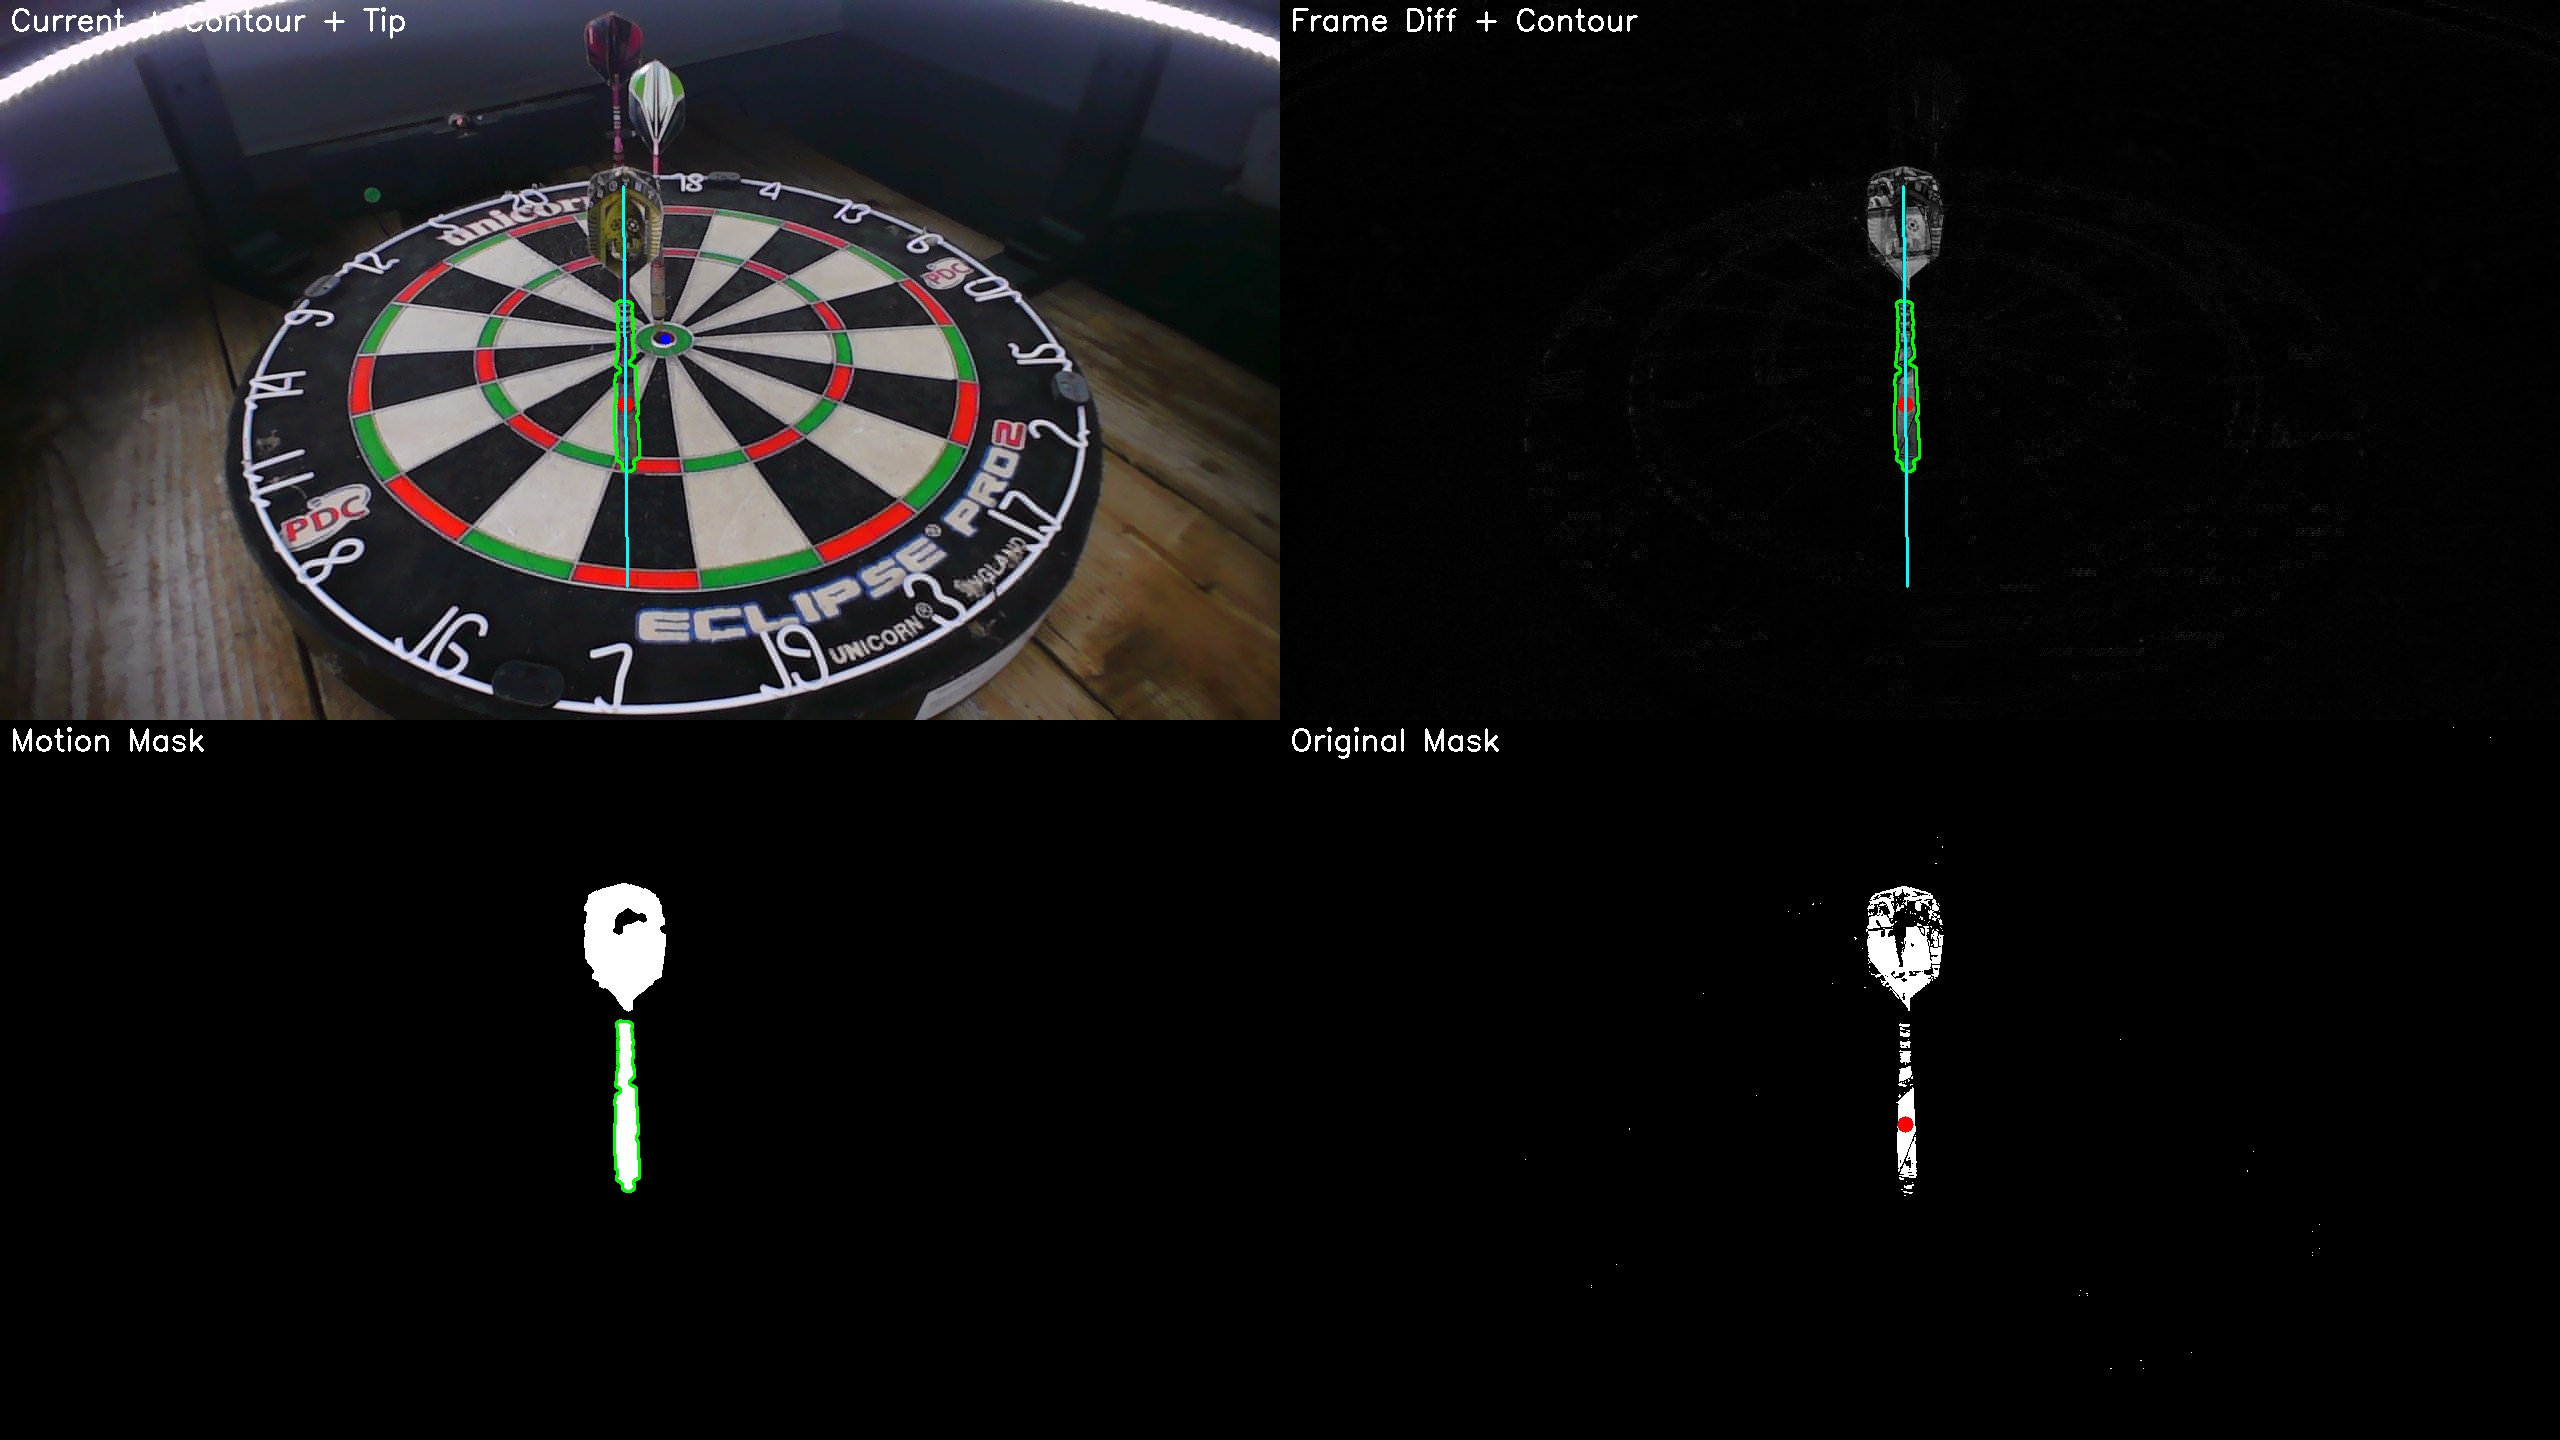
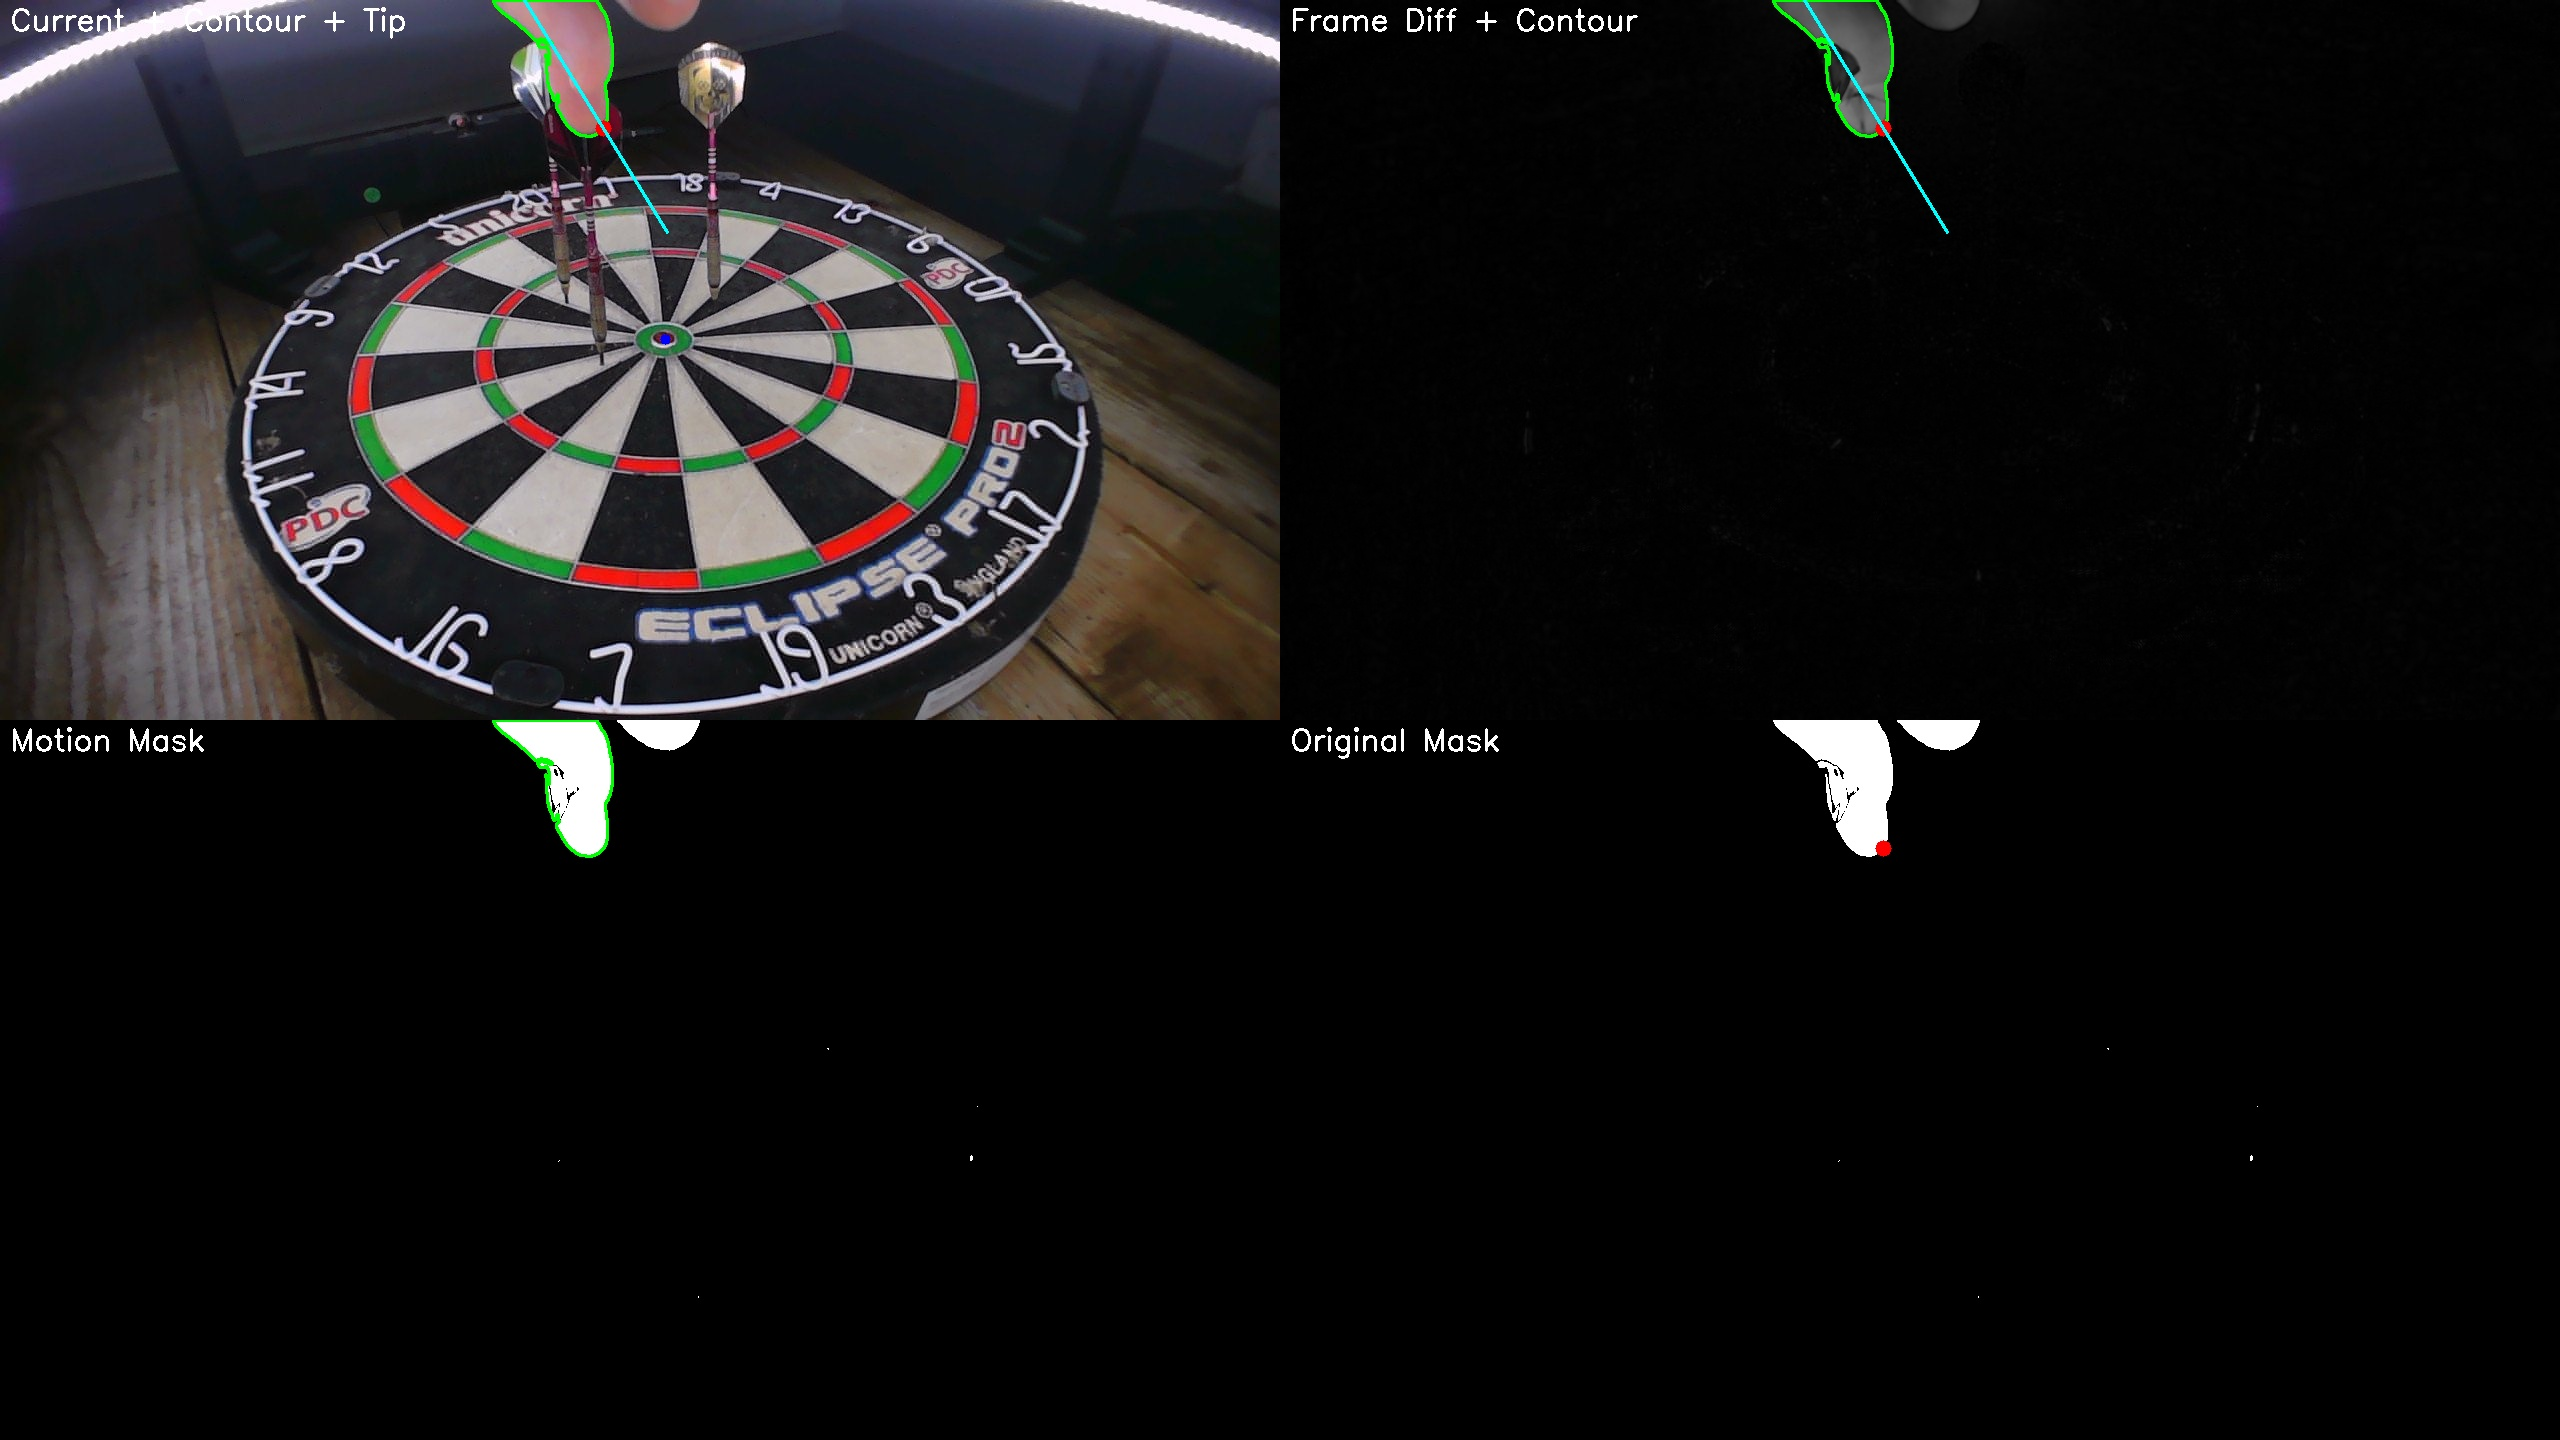
restore: back to Autodarts-style simple diff

diff --git a/app/core/skeleton_detection.py b/app/core/skeleton_detection.py
@@ -317,9 +317,15 @@ def project_to_tip(skeleton_endpoint, line_params, original_mask, max_extend=50,
     return (float(best_x), float(best_y))
 
 
-def find_tip_endpoint(endpoints, line_params, board_center=None):
+def find_tip_endpoint(endpoints, line_params, board_center=None, board_radius=None):
     """
-    Find which skeleton endpoint is the tip end (closest to board center).
+    Find which skeleton endpoint is the tip end.
+    
+    The tip is the point ON THE BOARD SURFACE (inside the board boundary).
+    The flight sticks OUT from the board (further from the board plane).
+    
+    Strategy: Pick the endpoint that is INSIDE the board boundary (within radius).
+    The tip is where dart meets board. Flight is beyond the board edge.
     """
     if len(endpoints) < 2 or line_params is None:
         return endpoints[0] if endpoints else None
@@ -327,18 +333,38 @@ def find_tip_endpoint(endpoints, line_params, board_center=None):
     vx, vy, x0, y0 = line_params
     
     if board_center is not None:
-        # Pick endpoint closest to board center
         cx, cy = board_center
+        
+        # Use calibration radius if provided, otherwise estimate
+        # Double ring outer edge is ~170mm from center, maps to ~180-220px typically
+        if board_radius is None:
+            board_radius = 200  # Default estimate
+        
         best_endpoint = None
-        best_dist = float('inf')
+        best_score = float('inf')  # Lower = better (more inside board)
+        
+        endpoint_info = []
         for (ex, ey) in endpoints:
-            dist = np.sqrt((ex - cx)**2 + (ey - cy)**2)
-            if dist < best_dist:
-                best_dist = dist
+            dist_from_center = np.sqrt((ex - cx)**2 + (ey - cy)**2)
+            
+            # Score = how far BEYOND the board boundary
+            # Negative = inside board (this is the TIP!)
+            # Positive = outside board (this is the FLIGHT!)
+            beyond_board = dist_from_center - board_radius
+            
+            endpoint_info.append(f"({ex:.0f},{ey:.0f}) d={dist_from_center:.0f} beyond={beyond_board:.0f}")
+            
+            if beyond_board < best_score:
+                best_score = beyond_board
                 best_endpoint = (ex, ey)
+        
+        # Debug log
+        with open(r"C:\Users\clawd\skeleton_endpoints.txt", "a") as f:
+            f.write(f"center=({cx:.0f},{cy:.0f}) radius={board_radius:.0f} [{'; '.join(endpoint_info)}] -> tip=({best_endpoint[0]:.0f},{best_endpoint[1]:.0f})\n")
+        
         return best_endpoint
     else:
-        # Default: pick endpoint in +Y direction from line midpoint
+        # Fallback: use line direction
         if vy < 0:
             vx, vy = -vx, -vy
         
@@ -357,43 +383,37 @@ def find_tip_endpoint(endpoints, line_params, board_center=None):
 
 
 def get_adaptive_motion_mask(current_frame, previous_frame, camera_id=None, 
-                             fixed_threshold=25, use_background_model=False):
+                             fixed_threshold=20, use_background_model=False):
     """
-    Get motion mask using either fixed threshold or adaptive background model.
+    Autodarts-style simple diff: blur -> diff -> threshold.
+    Minimal morphology to preserve dart shape, especially the tip.
     
     Args:
-        current_frame: Current BGR frame
+        current_frame: Current BGR frame (with dart)
         previous_frame: Previous BGR frame (before dart)
-        camera_id: Camera ID for background model lookup
-        fixed_threshold: Fixed threshold to use if no background model
-        use_background_model: Whether to use adaptive thresholding
+        camera_id: Unused (kept for API compatibility)
+        fixed_threshold: Threshold value (default 20)
+        use_background_model: Unused (kept for API compatibility)
     
     Returns:
         (gray_diff, motion_mask) tuple
     """
-    # Compute diff
-    diff = cv2.absdiff(current_frame, previous_frame)
+    # STEP 1: Gaussian blur to reduce sensor noise
+    blur_current = cv2.GaussianBlur(current_frame, (5, 5), 0)
+    blur_previous = cv2.GaussianBlur(previous_frame, (5, 5), 0)
+    
+    # STEP 2: Compute diff
+    diff = cv2.absdiff(blur_current, blur_previous)
     gray_diff = cv2.cvtColor(diff, cv2.COLOR_BGR2GRAY)
     
-    # Try adaptive thresholding via background model
-    if use_background_model and HAS_BG_MODEL and camera_id:
-        try:
-            bg_manager = get_background_manager()
-            diff_uint8, motion_mask = bg_manager.get_adaptive_diff(
-                camera_id, current_frame, previous_frame
-            )
-            # Use the adaptive mask if we got one
-            if motion_mask is not None and np.sum(motion_mask) > 0:
-                return gray_diff, motion_mask
-        except Exception as e:
-            pass  # Fall through to fixed threshold
-    
-    # Fallback: fixed threshold
+    # STEP 3: Simple threshold - that's it!
+    # Autodarts uses minimal processing to preserve dart shape
     _, motion_mask = cv2.threshold(gray_diff, fixed_threshold, 255, cv2.THRESH_BINARY)
     
-    # Remove small noise blobs
-    kernel = cv2.getStructuringElement(cv2.MORPH_ELLIPSE, (3, 3))
-    motion_mask = cv2.morphologyEx(motion_mask, cv2.MORPH_OPEN, kernel)
+    # Optional: very light opening to remove isolated noise pixels
+    # Keep kernel tiny (2x2) to avoid eating the tip
+    # open_kernel = cv2.getStructuringElement(cv2.MORPH_ELLIPSE, (2, 2))
+    # motion_mask = cv2.morphologyEx(motion_mask, cv2.MORPH_OPEN, open_kernel)
     
     return gray_diff, motion_mask
 
@@ -407,7 +427,8 @@ def detect_dart_skeleton(
     debug: bool = False,
     debug_name: str = "skeleton_debug",
     camera_id: str = None,
-    use_adaptive_threshold: bool = True
+    use_adaptive_threshold: bool = True,
+    board_radius: float = None
 ) -> dict:
     """
     Detect dart using skeleton-based approach with line projection.
@@ -416,6 +437,7 @@ def detect_dart_skeleton(
         existing_dart_locations: List of (x, y) tuples of previous dart tips to exclude
         camera_id: Camera ID for adaptive background thresholding
         use_adaptive_threshold: Use background model for adaptive thresholding
+        board_radius: Outer radius of board in pixels (from calibration) for tip selection
     """
     result = {
         "tip": None, 
@@ -443,18 +465,13 @@ def detect_dart_skeleton(
     # Keep original for tip projection (before erosion)
     original_mask = motion_mask_raw.copy()
     
-    # 3. Morphological cleanup for skeleton
-    # Erode to remove noise (but this may shrink tip)
-    erode_kernel = cv2.getStructuringElement(cv2.MORPH_ELLIPSE, (3, 3))
-    motion_mask = cv2.erode(motion_mask_raw, erode_kernel, iterations=1)  # Less erosion
+    # 3. Autodarts-style: minimal morphology to preserve dart shape
+    # Just use the raw threshold mask - the tip is preserved!
+    motion_mask = motion_mask_raw
     
-    # Dilate to restore
-    dilate_kernel = cv2.getStructuringElement(cv2.MORPH_ELLIPSE, (5, 5))
-    motion_mask = cv2.dilate(motion_mask, dilate_kernel, iterations=2)
-    
-    # Close to fill holes
-    close_kernel = cv2.getStructuringElement(cv2.MORPH_ELLIPSE, (7, 7))
-    motion_mask = cv2.morphologyEx(motion_mask, cv2.MORPH_CLOSE, close_kernel)
+    # Optional: very light closing to connect broken segments (small kernel only)
+    # close_kernel = cv2.getStructuringElement(cv2.MORPH_ELLIPSE, (3, 3))
+    # motion_mask = cv2.morphologyEx(motion_mask, cv2.MORPH_CLOSE, close_kernel)
     
     # 4. Find dart contour (excluding existing dart locations)
     if existing_dart_locations is None:
@@ -507,8 +524,8 @@ def detect_dart_skeleton(
     endpoints = find_skeleton_endpoints(skeleton)
     
     if len(endpoints) >= 2 and line_params:
-        # Find which endpoint is the tip end (closest to board center)
-        skeleton_tip = find_tip_endpoint(endpoints, line_params, board_center=center)
+        # Find which endpoint is the tip (inside board boundary)
+        skeleton_tip = find_tip_endpoint(endpoints, line_params, board_center=center, board_radius=board_radius)
         
         # Project along line to find true tip in original mask
         tip = project_to_tip(skeleton_tip, line_params, original_mask, max_extend=100, board_center=center)
@@ -544,7 +561,8 @@ def detect_dart_hough(
     debug: bool = False,
     debug_name: str = "hough_debug",
     camera_id: str = None,
-    use_adaptive_threshold: bool = True
+    use_adaptive_threshold: bool = True,
+    board_radius: float = None
 ) -> dict:
     """Detect dart using Hough line detection."""
     result = {"tip": None, "line": None, "confidence": 0.0, "method": "hough"}
@@ -674,7 +692,7 @@ def detect_dart_hough(
     
     # Find tip endpoint and project
     endpoints = [(x1, y1), (x2, y2)]
-    skeleton_tip = find_tip_endpoint(endpoints, (vx, vy, x0, y0), board_center=center)
+    skeleton_tip = find_tip_endpoint(endpoints, (vx, vy, x0, y0), board_center=center, board_radius=board_radius)
     
     if skeleton_tip:
         tip = project_to_tip(skeleton_tip, (vx, vy, x0, y0), original_mask, max_extend=100, board_center=center)
